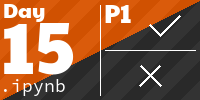
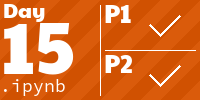
add day 15 tiles

diff --git a/README.md b/README.md
@@ -3,6 +3,54 @@
 Hello, good evening, and welcome to another Advent of Code repository where you can watch me crash and burn/run out of free time sometime around day 12 ;)
 
 <!-- AOC TILES BEGIN -->
+<h1 align="center">
+  2024 - 30 ⭐ - Jupyter Notebook
+</h1>
+<a href="day01.ipynb">
+  <img src=".aoc_tiles/tiles/2024/01.png" width="161px">
+</a>
+<a href="day02.ipynb">
+  <img src=".aoc_tiles/tiles/2024/02.png" width="161px">
+</a>
+<a href="day03.ipynb">
+  <img src=".aoc_tiles/tiles/2024/03.png" width="161px">
+</a>
+<a href="day04.ipynb">
+  <img src=".aoc_tiles/tiles/2024/04.png" width="161px">
+</a>
+<a href="day05.ipynb">
+  <img src=".aoc_tiles/tiles/2024/05.png" width="161px">
+</a>
+<a href="day06.ipynb">
+  <img src=".aoc_tiles/tiles/2024/06.png" width="161px">
+</a>
+<a href="day07.ipynb">
+  <img src=".aoc_tiles/tiles/2024/07.png" width="161px">
+</a>
+<a href="day08.ipynb">
+  <img src=".aoc_tiles/tiles/2024/08.png" width="161px">
+</a>
+<a href="day09.ipynb">
+  <img src=".aoc_tiles/tiles/2024/09.png" width="161px">
+</a>
+<a href="day10.ipynb">
+  <img src=".aoc_tiles/tiles/2024/10.png" width="161px">
+</a>
+<a href="day11.ipynb">
+  <img src=".aoc_tiles/tiles/2024/11.png" width="161px">
+</a>
+<a href="day12.ipynb">
+  <img src=".aoc_tiles/tiles/2024/12.png" width="161px">
+</a>
+<a href="day13.ipynb">
+  <img src=".aoc_tiles/tiles/2024/13.png" width="161px">
+</a>
+<a href="day14.ipynb">
+  <img src=".aoc_tiles/tiles/2024/14.png" width="161px">
+</a>
+<a href="day15.ipynb">
+  <img src=".aoc_tiles/tiles/2024/15.png" width="161px">
+</a>
 <!-- AOC TILES END -->
 
 - Day 01 [[html]](html/day01.html) [[pdf]](pdf/day01.pdf)
